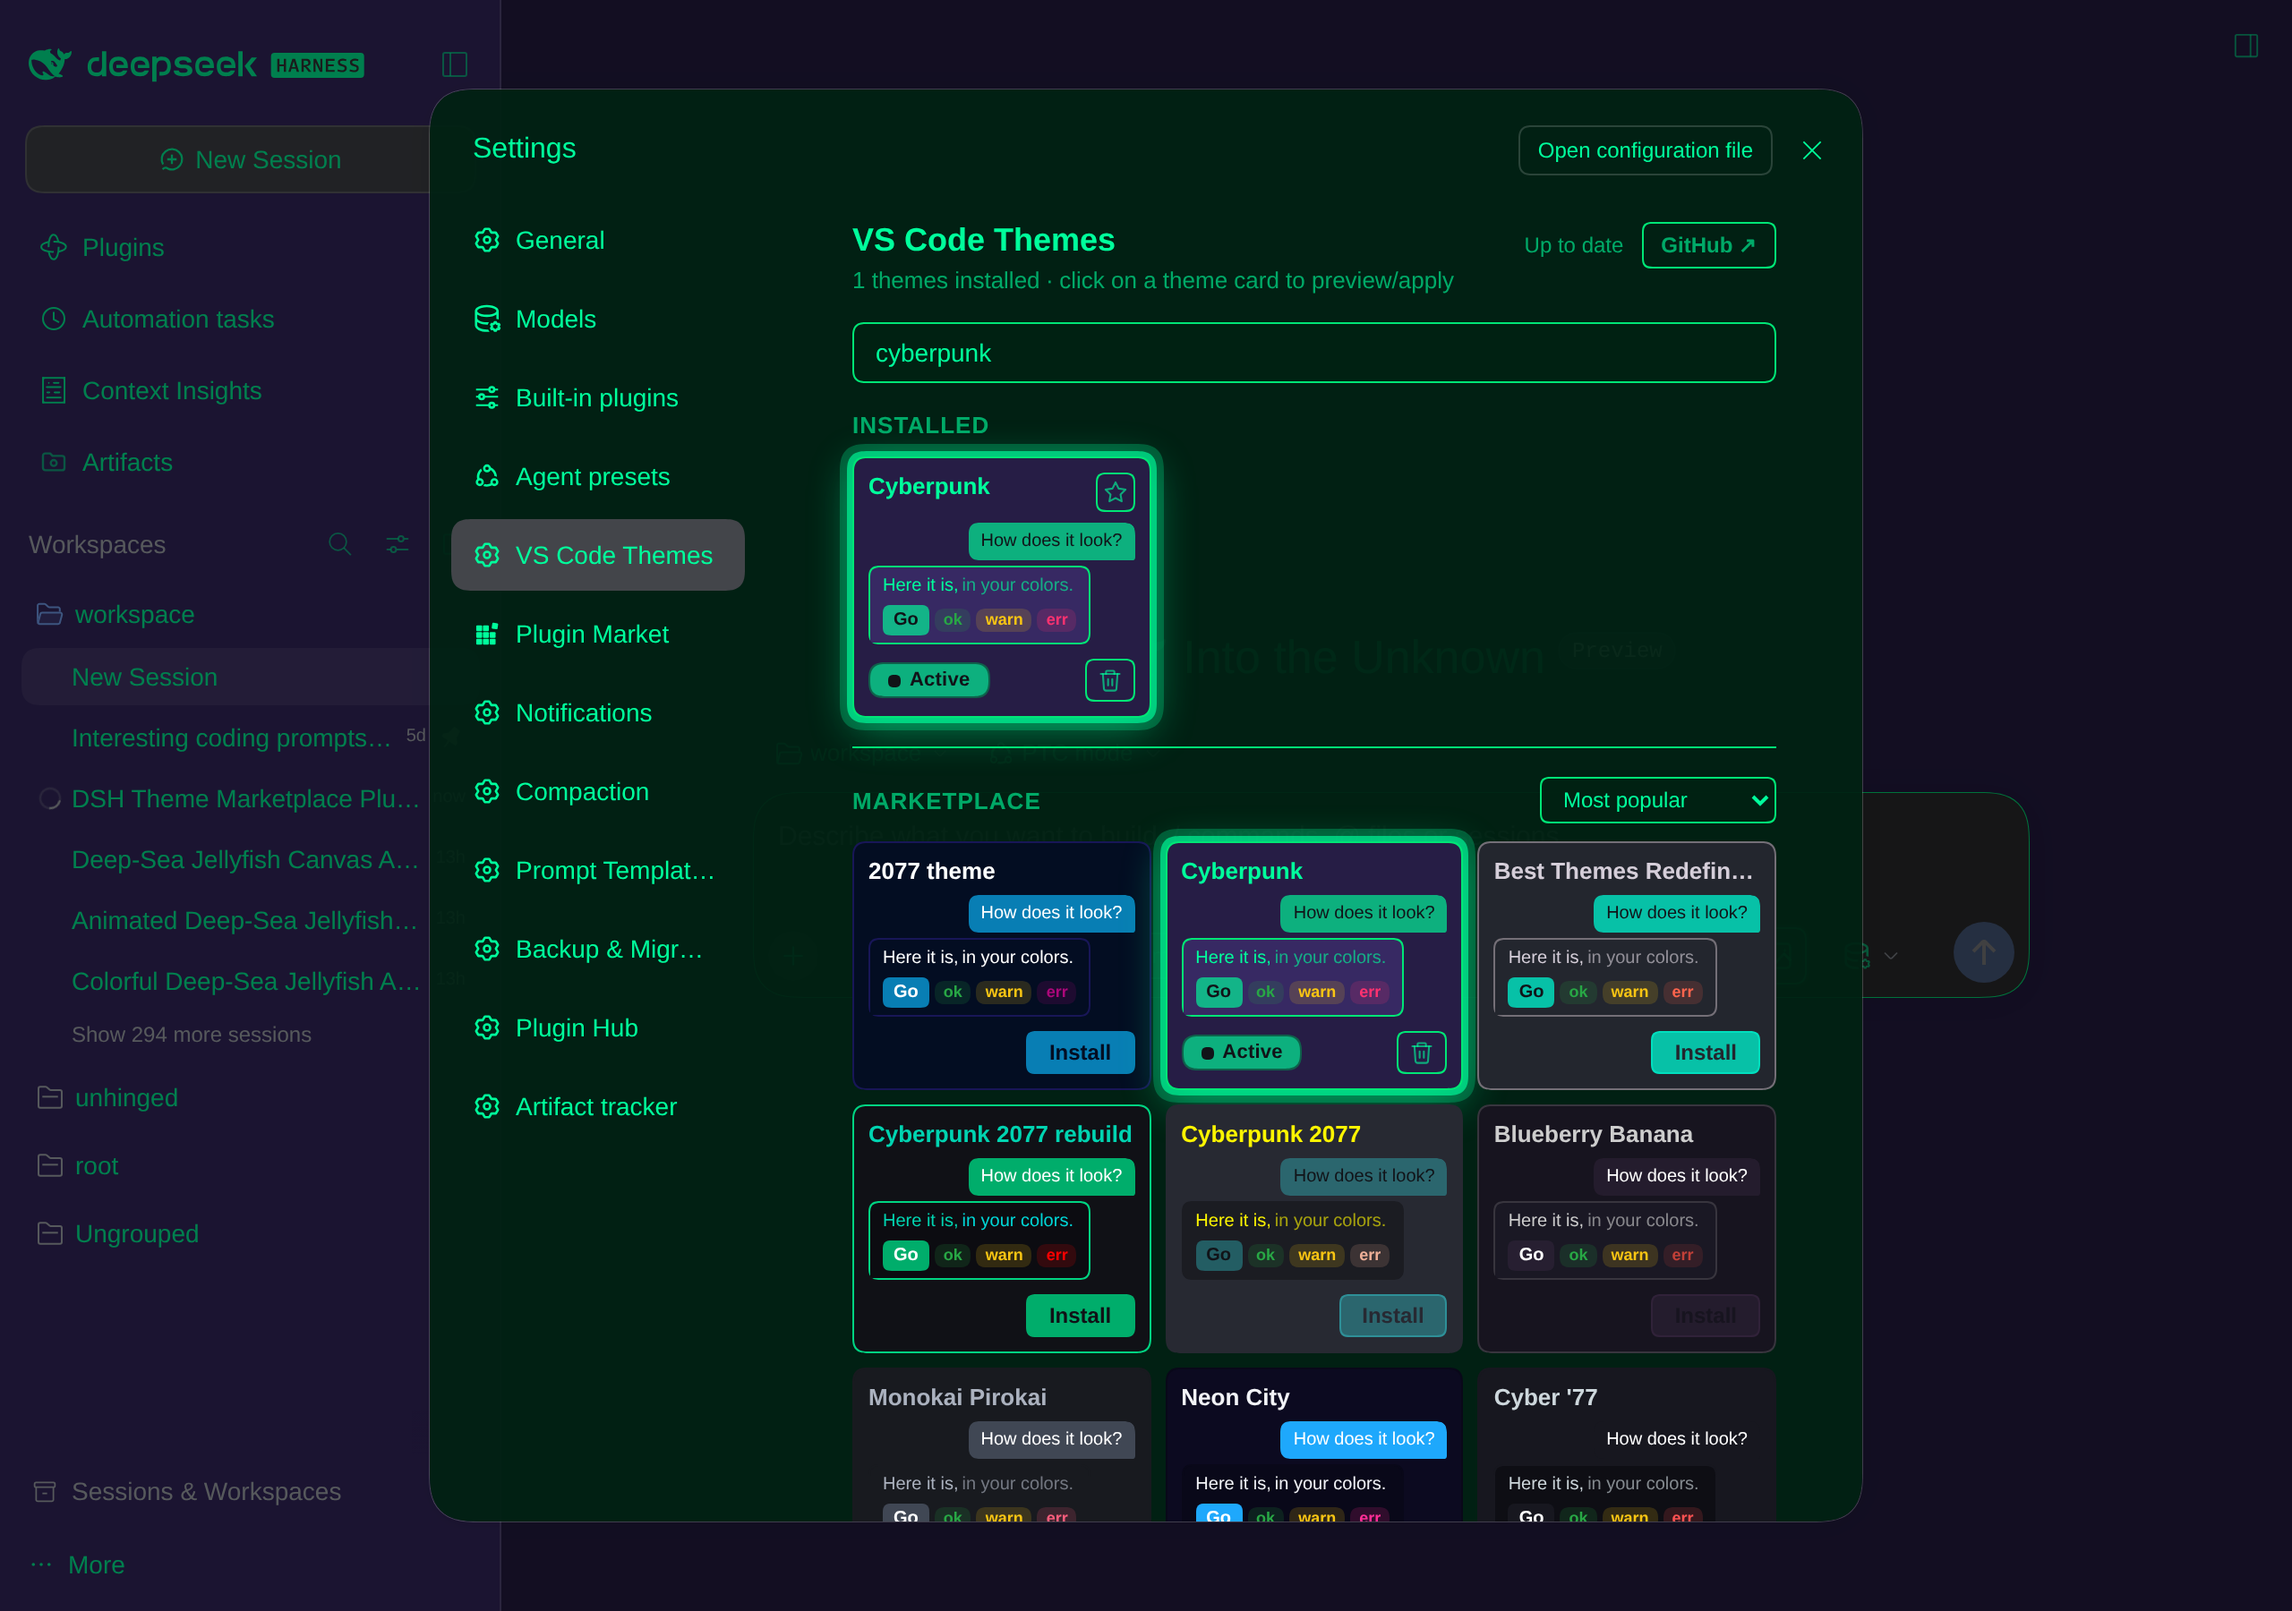
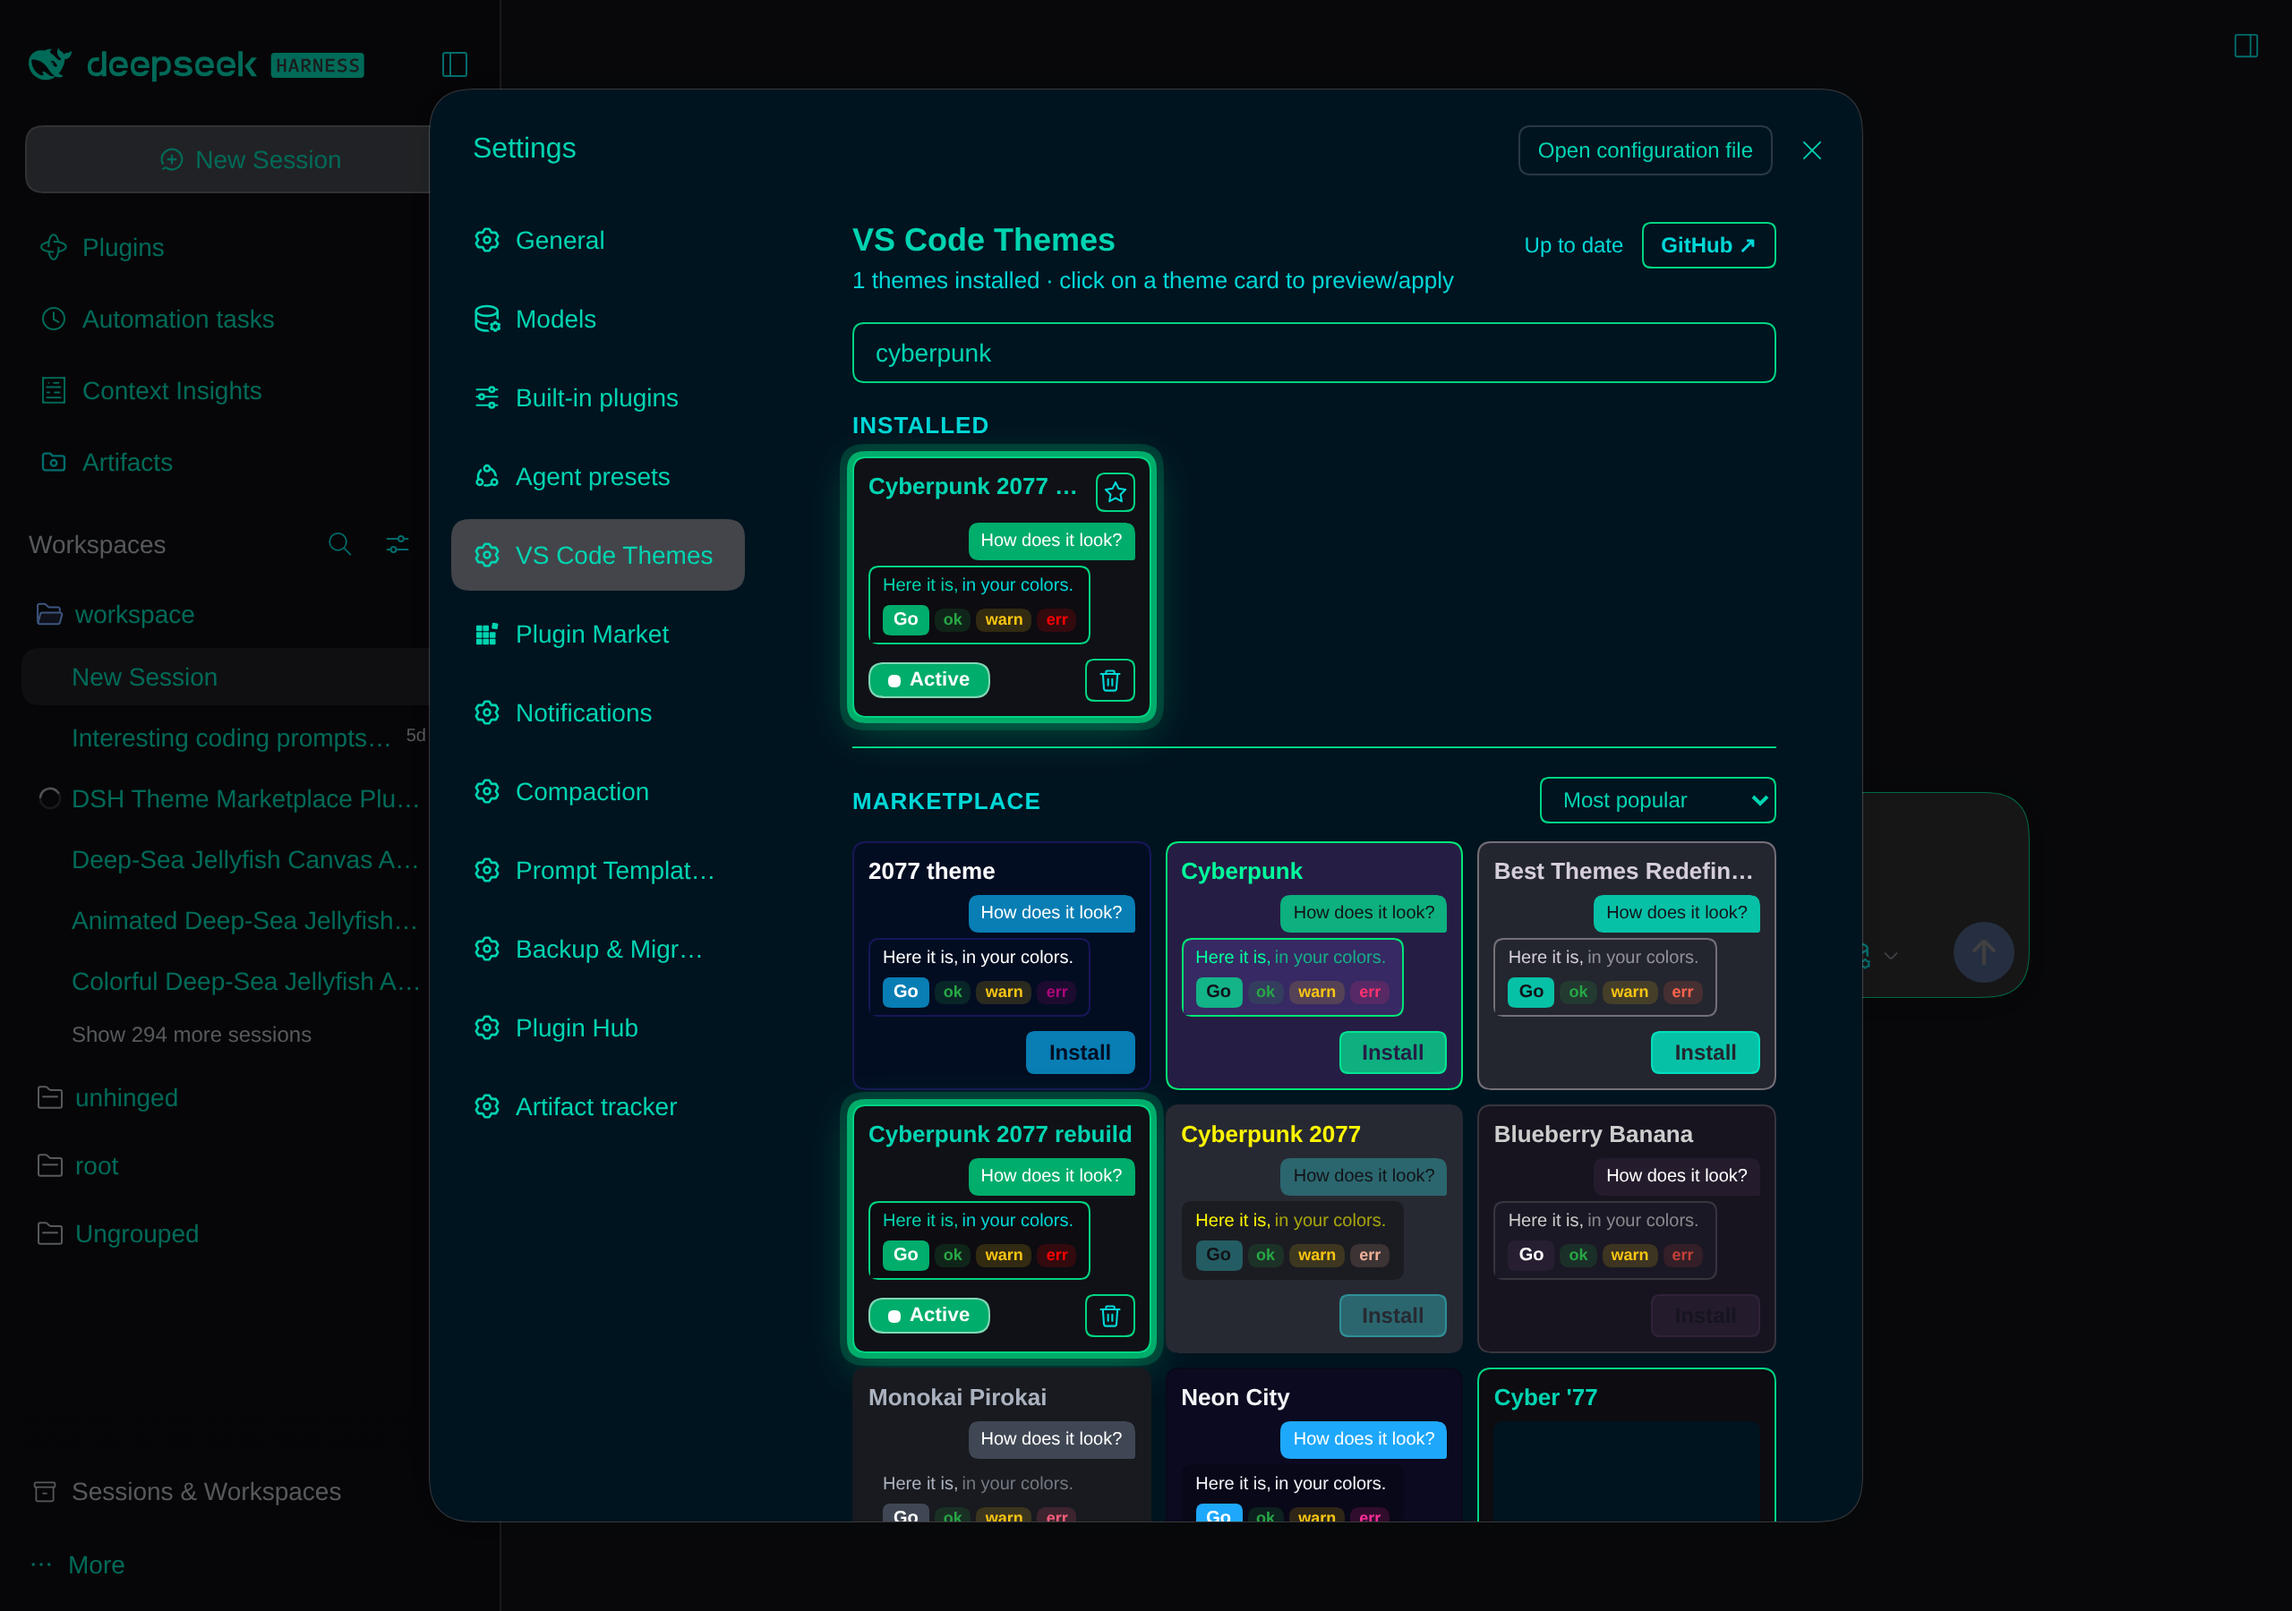
docs: first screenshot uses Cyberpunk 2077 rebuild theme (applied)

diff --git a/README.md b/README.md
@@ -34,11 +34,12 @@ Real-browser captures of the settings panel. Each card previews its theme live
 ring + pill in its own accent colour, and the whole UI is re-skinned in that
 theme's palette.
 
-The **Cyberpunk** theme applied — the entire UI re-skinned in its dark neon
-palette — with a "cyberpunk" search returning the installed theme in **Installed**
-and the Marketplace section listing matching themes with the result-sort dropdown:
+The **Cyberpunk 2077 rebuild** theme applied — the entire UI re-skinned in its
+dark neon palette — with a "cyberpunk" search returning the installed theme in
+**Installed** and the Marketplace section listing matching themes with the
+result-sort dropdown:
 
-![Cyberpunk theme applied, search cyberpunk](screenshots/search-cyberpunk.png)
+![Cyberpunk 2077 rebuild applied, search cyberpunk](screenshots/search-cyberpunk.png)
 
 The dark **Claude Code Theme** applied (the whole UI re-skinned in its palette,
 Active ring + pill) with a "claude" search returning the installed theme in
